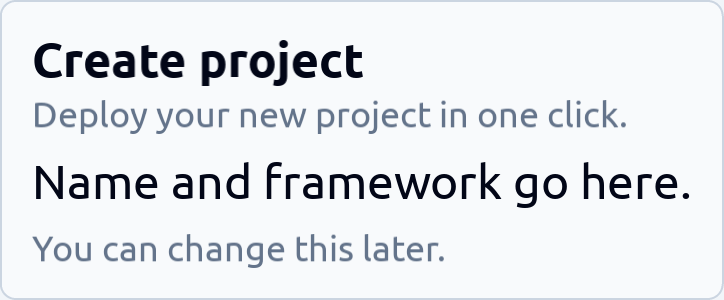
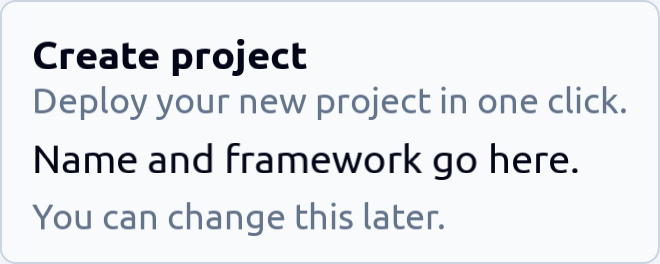
A collapsible card shows its fold state, and a card names its own padding
A WidgetCard with collapsible = true draws a chevron before its Document
title, pointing down while it is open and right while it is collapsed. The
whole header band is the fold target, and a collapsed card draws its header
and nothing else.

The padding field takes a number for every side or an Inset per side; a
negative number, the default, means the theme's. A card with no footer ends
at its padding: the section gap separates the content from a footer only.

New example widget_collapsible_card_example, and test_widget_card_fold() in
the substrate suite.

diff --git a/documentation/package/widget/widget.md b/documentation/package/widget/widget.md
@@ -52,7 +52,7 @@ the fields they need plus `visible`/`selection`:
 |---|---|
 | `WidgetBadge(position, content; variant)` | Pill label (`:default`/`:secondary`/`:destructive`/`:outline`) |
 | `WidgetSeparator(position; orientation, length)` | Hairline divider |
-| `WidgetCard(position; title, description, content, footer)` | Bordered surface with header/body/footer |
+| `WidgetCard(position; title, description, content, footer; variant, collapsible, padding)` | Surface with header/body/footer. `variant` says how loud the panel is (`:card`/`:tinted`/`:muted`/`:plain`). A `collapsible` card draws a chevron before its `Document` title, folds from its whole header band, and draws only the header while `collapsed`. `padding` overrides the theme's padding, one number for every side or an `Inset`; `0` on a `:plain` card occupies nothing beyond its content |
 | `WidgetSwitch(position, checked)` | On/off switch (track + knob) |
 | `WidgetProgress(position, value)` | Progress bar (`value ∈ [0,1]`) |
 | `WidgetSlider(position, value)` | Slider (track + knob) |
